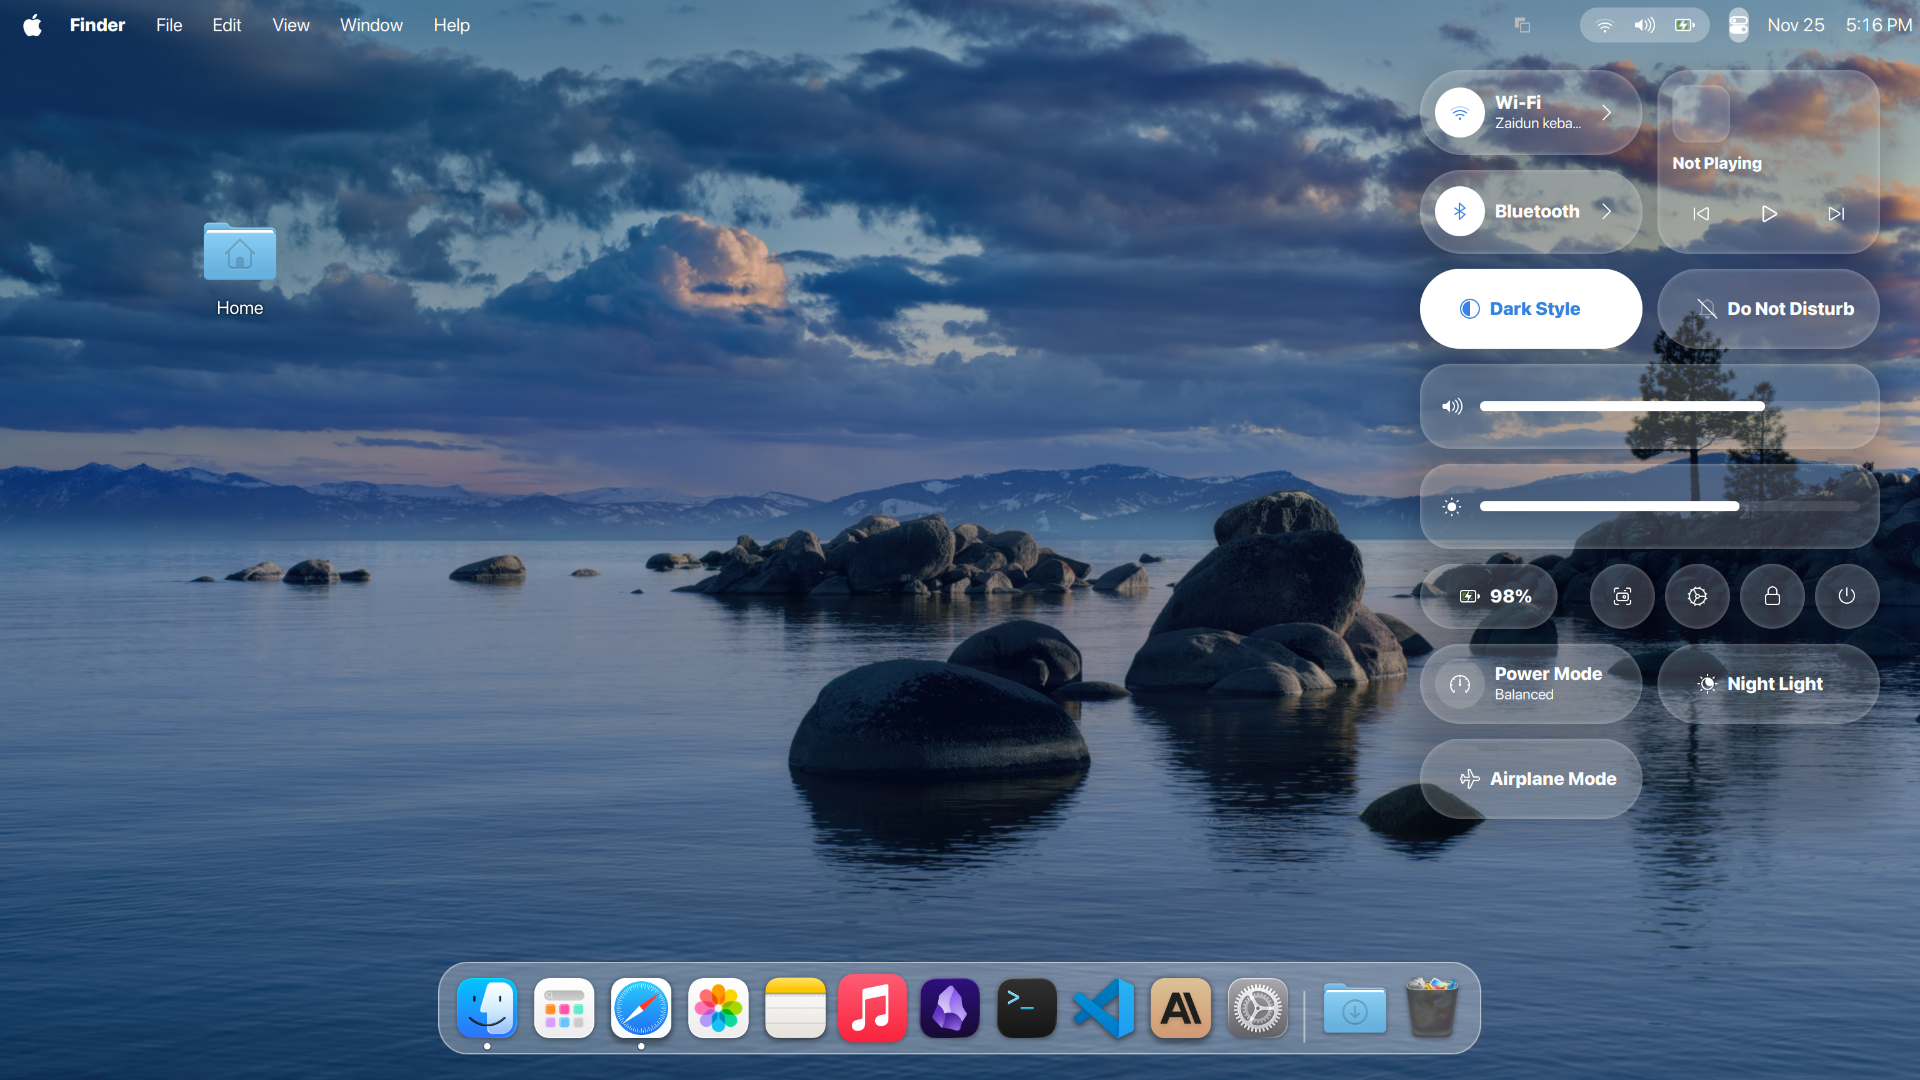
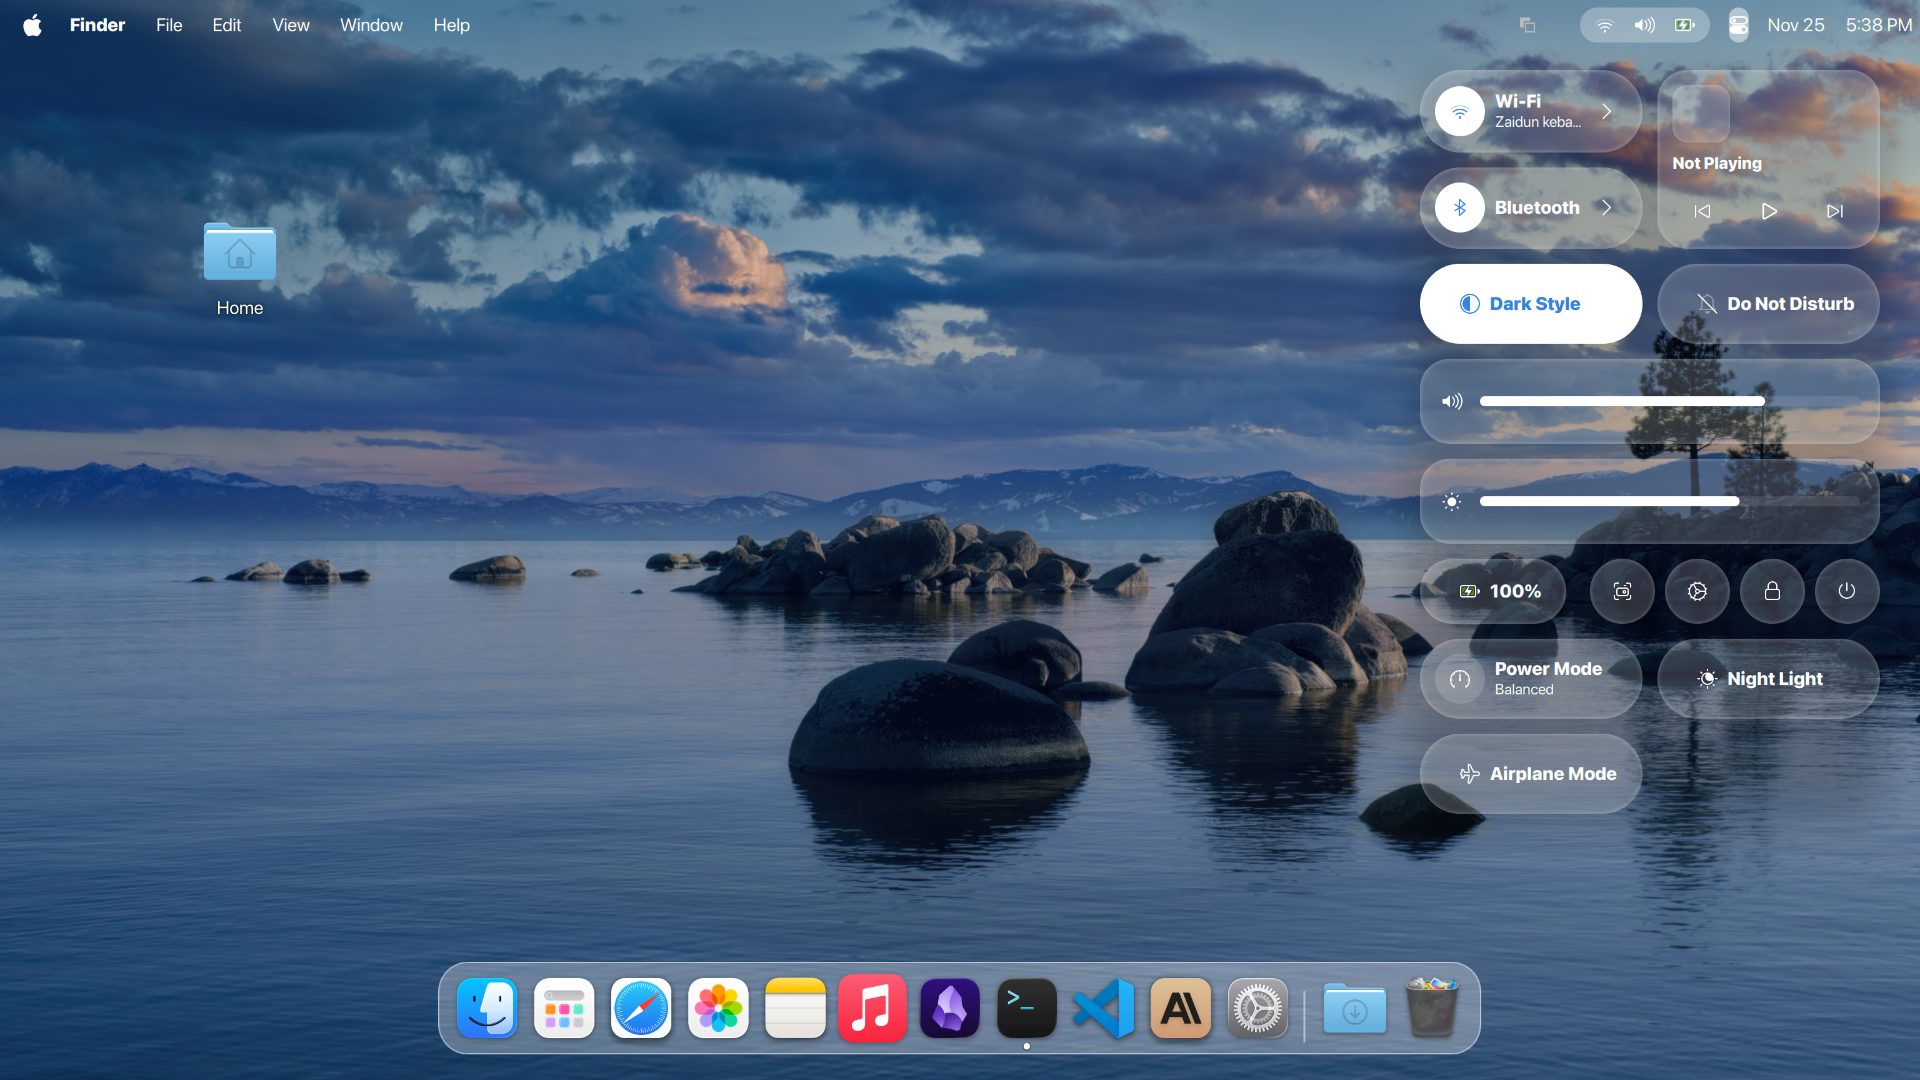
feat(music-card): art backdrop, half-width card, HiDPI-aware spacing
- Music card can fill the split block at half width with album art as backdrop
- Grid spacing read from theme node is divided by scale factor for HiDPI
- Layout spacing applied via style instead of layout_manager
- Refresh preview screenshots (playing / not playing)

diff --git a/src/lib/musicCard.js b/src/lib/musicCard.js
@@ -5,23 +5,32 @@ import St from 'gi://St';
 import {setArtOnWidget} from './artCache.js';
 
 export class MusicCard {
-    constructor({onPrev, onPlayPause, onNext, artCache} = {}) {
+    constructor({onPrev, onPlayPause, onNext, artCache, halfWidth = false} = {}) {
         this._onPrev = onPrev;
         this._onPlayPause = onPlayPause;
         this._onNext = onNext;
         this._artCache = artCache;
+        this._halfWidth = halfWidth;
 
         this._busName = null;
         this._lastArtUrl = null;
         this._artCancellable = null;
         this._destroyed = false;
 
+        this._fallbackStyle = null;
+        this._hasBgFallback = false;
+
+        const cardClasses = halfWidth
+            ? 'quick-slider mac-cc-music-card mac-cc-music-card-half mac-cc-split-right'
+            : 'quick-slider mac-cc-music-card mac-cc-split-right';
+
         this.actor = new St.BoxLayout({
-            orientation: Clutter.Orientation.HORIZONTAL,
-            style_class: 'mac-cc-music-card mac-cc-split-right',
+            orientation: Clutter.Orientation.VERTICAL,
+            style_class: cardClasses,
             x_expand: true,
             y_expand: true,
         });
+        this.actor.connect('style-changed', () => this._syncThemeFallback());
         this.actor.connect('destroy', () => {
             this._destroyed = true;
             this._cancelArt();
@@ -30,7 +39,8 @@ export class MusicCard {
 
         this._art = new St.Widget({
             style_class: 'mac-cc-music-art',
-            y_align: Clutter.ActorAlign.CENTER,
+            x_align: Clutter.ActorAlign.START,
+            y_align: Clutter.ActorAlign.START,
         });
         this.actor.add_child(this._art);
 
@@ -38,7 +48,7 @@ export class MusicCard {
             orientation: Clutter.Orientation.VERTICAL,
             style_class: 'mac-cc-music-info',
             x_expand: true,
-            y_align: Clutter.ActorAlign.CENTER,
+            y_align: Clutter.ActorAlign.START,
         });
         this.actor.add_child(infoBox);
 
@@ -48,6 +58,7 @@ export class MusicCard {
             x_expand: true,
         });
         this._titleLabel.clutter_text.ellipsize = Pango.EllipsizeMode.END;
+        this._titleLabel.clutter_text.single_line_mode = true;
         infoBox.add_child(this._titleLabel);
 
         this._artistLabel = new St.Label({
@@ -57,20 +68,25 @@ export class MusicCard {
             visible: false,
         });
         this._artistLabel.clutter_text.ellipsize = Pango.EllipsizeMode.END;
+        this._artistLabel.clutter_text.single_line_mode = true;
         infoBox.add_child(this._artistLabel);
 
         const controls = new St.BoxLayout({
             orientation: Clutter.Orientation.HORIZONTAL,
             style_class: 'mac-cc-music-controls',
+            x_expand: true,
+            y_expand: true,
+            y_align: Clutter.ActorAlign.END,
         });
-        infoBox.add_child(controls);
+        controls.layout_manager.homogeneous = true;
+        this.actor.add_child(controls);
 
         this._prevBtn = this._makeButton('media-skip-backward-symbolic', 'Previous', () => {
             this._onPrev?.(this._busName);
         });
         this._playPauseBtn = this._makeButton('media-playback-start-symbolic', 'Play/Pause', () => {
             this._onPlayPause?.(this._busName);
-        });
+        }, 'mac-cc-music-btn-play');
         this._nextBtn = this._makeButton('media-skip-forward-symbolic', 'Next', () => {
             this._onNext?.(this._busName);
         });
@@ -82,13 +98,89 @@ export class MusicCard {
         this.update(null);
     }
 
-    _makeButton(iconName, accessibleName, onClick) {
+    _syncThemeFallback() {
+        if (this._destroyed || !this.actor) return;
+        try {
+            const searchRoot = this.actor.get_parent()?.get_parent() ?? this.actor.get_parent();
+            const sliderSibling = this._findSiblingByClass(searchRoot, ['quick-slider']);
+            const themeBgAlpha = sliderSibling
+                ? sliderSibling.get_theme_node().get_background_color().alpha
+                : (this._hasBgFallback ? 0 : this.actor.get_theme_node().get_background_color().alpha);
+
+            const tileSibling = this._findSiblingByClass(searchRoot, ['quick-toggle', 'quick-toggle-has-menu']);
+            const parts = [];
+            let hasBgFallback = false;
+
+            // On themes where .quick-slider is transparent (e.g. stock Yaru/Adwaita),
+            // copy background and text color from a sibling .quick-toggle tile.
+            if (themeBgAlpha === 0) {
+                hasBgFallback = true;
+                if (tileSibling) {
+                    const sNode = tileSibling.get_theme_node();
+                    const sBg = sNode.get_background_color();
+                    const sFg = sNode.get_foreground_color();
+                    if (sBg.alpha > 0) {
+                        parts.push(
+                            `background-color: rgba(${sBg.red}, ${sBg.green}, ${sBg.blue}, ${(sBg.alpha / 255).toFixed(3)})`,
+                            `color: rgba(${sFg.red}, ${sFg.green}, ${sFg.blue}, ${(sFg.alpha / 255).toFixed(3)})`
+                        );
+                    } else {
+                        parts.push('background-color: rgba(127, 127, 127, 0.18)');
+                    }
+                } else {
+                    parts.push('background-color: rgba(127, 127, 127, 0.18)');
+                }
+            }
+
+            if (this._halfWidth && tileSibling) {
+                const scale = St.ThemeContext.get_for_stage(global.stage).scale_factor || 1;
+                const sNode = tileSibling.get_theme_node();
+                const [foundMax, maxW] = sNode.lookup_length('max-width', false);
+                if (foundMax && maxW > 0) {
+                    const sPad = sNode.get_padding(St.Side.LEFT) + sNode.get_padding(St.Side.RIGHT) +
+                        sNode.get_border_width(St.Side.LEFT) + sNode.get_border_width(St.Side.RIGHT);
+                    const cNode = this.actor.get_theme_node();
+                    const cPad = cNode.get_padding(St.Side.LEFT) + cNode.get_padding(St.Side.RIGHT) +
+                        cNode.get_border_width(St.Side.LEFT) + cNode.get_border_width(St.Side.RIGHT);
+                    const logicalMax = Math.max(80, Math.round((maxW + sPad - cPad) / scale));
+                    if (logicalMax !== 148)
+                        parts.push(`max-width: ${logicalMax}px`);
+                }
+            }
+
+            this._hasBgFallback = hasBgFallback;
+            const style = parts.length > 0 ? `${parts.join('; ')};` : null;
+            if (this._fallbackStyle !== style) {
+                this._fallbackStyle = style;
+                this.actor.set_style(style);
+            }
+        } catch (e) { /* actor unmapped or mid-destroy */ }
+    }
+
+    _findSiblingByClass(parent, classNames) {
+        if (!parent) return null;
+        for (const child of parent.get_children()) {
+            if (child === this.actor) continue;
+            const tokens = child.style_class?.split(/\s+/) ?? [];
+            if (classNames.some(c => tokens.includes(c)))
+                return child;
+            if (child.get_children) {
+                const nested = this._findSiblingByClass(child, classNames);
+                if (nested) return nested;
+            }
+        }
+        return null;
+    }
+
+    _makeButton(iconName, accessibleName, onClick, extraClass = '') {
         const icon = new St.Icon({icon_name: iconName});
         const btn = new St.Button({
-            style_class: 'icon-button mac-cc-music-btn',
+            style_class: extraClass ? `icon-button mac-cc-music-btn ${extraClass}` : 'icon-button mac-cc-music-btn',
             child: icon,
             accessible_name: accessibleName,
             can_focus: true,
+            x_expand: true,
+            x_align: Clutter.ActorAlign.CENTER,
         });
         btn.connect('clicked', onClick);
         return btn;
@@ -98,9 +190,9 @@ export class MusicCard {
         btn.reactive = enabled;
         btn.can_focus = enabled;
         if (enabled)
-            btn.remove_style_pseudo_class('insensitive');
+            btn.remove_style_class_name('mac-cc-music-btn-disabled');
         else
-            btn.add_style_pseudo_class('insensitive');
+            btn.add_style_class_name('mac-cc-music-btn-disabled');
     }
 
     update(state) {

diff --git a/src/lib/controlCenter.js b/src/lib/controlCenter.js
@@ -31,11 +31,12 @@ export class ControlCenter {
         let rowSpacing = 12;
         let colSpacing = 12;
         try {
+            const scale = St.ThemeContext.get_for_stage(global.stage).scale_factor || 1;
             const node = this._qs.menu._grid.get_theme_node();
             const [fRow, rLen] = node.lookup_length('spacing-rows', false);
             const [fCol, cLen] = node.lookup_length('spacing-columns', false);
-            if (fRow && rLen > 0) rowSpacing = rLen;
-            if (fCol && cLen > 0) colSpacing = cLen;
+            if (fRow && rLen > 0) rowSpacing = Math.round(rLen / scale);
+            if (fCol && cLen > 0) colSpacing = Math.round(cLen / scale);
         } catch (e) { /* use default 12 */ }
         return {rowSpacing, colSpacing};
     }
@@ -76,7 +77,7 @@ export class ControlCenter {
             style_class: 'mac-cc mac-cc-root',
             x_expand: true,
         });
-        this._root.layout_manager.spacing = rowSpacing;
+        this._root.set_style(`spacing: ${rowSpacing}px;`);
         this._rootDestroyId = this._root.connect('destroy', () => {
             this._rootDestroyId = 0;
             this._root = null;
@@ -139,7 +140,7 @@ export class ControlCenter {
                 x_expand: true,
                 style_class: 'mac-cc-tile-row',
             });
-            rowBox.layout_manager.spacing = colSpacing;
+            rowBox.set_style(`spacing: ${colSpacing}px;`);
             if (!isFullWidth)
                 rowBox.layout_manager.homogeneous = true;
 
@@ -203,23 +204,29 @@ export class ControlCenter {
                     x_expand: true,
                     style_class: 'mac-cc-split',
                 });
-                splitBox.layout_manager.spacing = colSpacing;
+                splitBox.set_style(`spacing: ${colSpacing}px;`);
 
                 const stackEntries = (block.stack ?? []).map(id => itemsMap.get(id)).filter(Boolean);
+                if (stackEntries.length > 0 && block.card)
+                    splitBox.layout_manager.homogeneous = true;
+
                 if (stackEntries.length > 0) {
                     const leftCol = new St.BoxLayout({
                         orientation: Clutter.Orientation.VERTICAL,
-                        x_expand: false,
+                        x_expand: true,
                         style_class: 'mac-cc-split-left',
                     });
-                    leftCol.layout_manager.spacing = rowSpacing;
+                    leftCol.set_style(`spacing: ${rowSpacing}px;`);
                     for (const entry of stackEntries)
                         move(entry.actor, leftCol, {xExpand: true});
                     splitBox.add_child(leftCol);
                 }
 
                 if (block.card) {
-                    this._musicCard = new MusicCard(this._mediaOpts);
+                    this._musicCard = new MusicCard({
+                        ...this._mediaOpts,
+                        halfWidth: stackEntries.length > 0,
+                    });
                     this._musicCard.update(this._lastMusicState);
                     splitBox.add_child(this._musicCard.actor);
                 }
@@ -271,7 +278,7 @@ export class ControlCenter {
                     x_expand: true,
                     style_class: 'mac-cc-circles',
                 });
-                rowBox.layout_manager.spacing = colSpacing;
+                rowBox.set_style(`spacing: ${colSpacing}px;`);
                 for (const entry of entries)
                     move(entry.actor, rowBox, {xExpand: true});
 
@@ -327,7 +334,7 @@ export class ControlCenter {
             child.destroy();
 
         const spacing = this._readGridSpacing();
-        this._root.layout_manager.spacing = spacing.rowSpacing;
+        this._root.set_style(`spacing: ${spacing.rowSpacing}px;`);
 
         // 4. Plan + build Tahoe layout
         const itemsMap = this._registry.getItems();

diff --git a/src/stylesheet.css b/src/stylesheet.css
@@ -7,6 +7,7 @@
 /* ── Root container ─────────────────────────────────────────── */
 .mac-cc-root {
     padding: 0px;
+    spacing: 12px;
 }
 
 .mac-cc-submenu-slot {
@@ -24,21 +25,28 @@
 }
 
 /* ── Music / Now Playing card ───────────────────────────────── */
+/* Inherits glass surface, inset highlight, border-radius, and foreground color
+ * from the active shell theme's .quick-slider class. */
 .mac-cc-music-card {
     padding: 12px;
-    border-radius: 18px;
-    spacing: 10px;
-    background-color: rgba(127, 127, 127, 0.15);
+    border-radius: 24px;
+    spacing: 8px;
+}
+
+.mac-cc-music-card-half {
+    min-width: 80px;
+    max-width: 148px;
 }
 
 .mac-cc-music-art {
-    border-radius: 10px;
-    min-width: 48px;
-    min-height: 48px;
-    max-width: 72px;
-    max-height: 72px;
+    border-radius: 12px;
+    min-width: 46px;
+    min-height: 46px;
+    max-width: 56px;
+    max-height: 56px;
     background-size: cover;
-    background-color: rgba(127, 127, 127, 0.25);
+    background-color: rgba(255, 255, 255, 0.15);
+    box-shadow: inset 0 0 3px rgba(255, 255, 255, 0.25);
 }
 
 .mac-cc-music-info {
@@ -46,13 +54,13 @@
 }
 
 .mac-cc-music-title {
-    font-size: 0.85em;
+    font-size: 0.9em;
     font-weight: bold;
 }
 
 .mac-cc-music-artist {
-    font-size: 0.78em;
-    opacity: 160;
+    font-size: 0.8em;
+    opacity: 175;
 }
 
 .mac-cc-music-controls {
@@ -61,10 +69,19 @@
 }
 
 .mac-cc-music-btn {
-    padding: 4px;
+    padding: 6px;
+    margin: 0px;
     border-radius: 9999px;
-    min-width: 24px;
+    min-width: 20px;
     min-height: 24px;
+}
+
+.mac-cc-music-btn-play StIcon {
+    icon-size: 20px;
+}
+
+.mac-cc-music-btn-disabled {
+    opacity: 165;
 }
 
 /* ── Tile rows ──────────────────────────────────────────────── */
